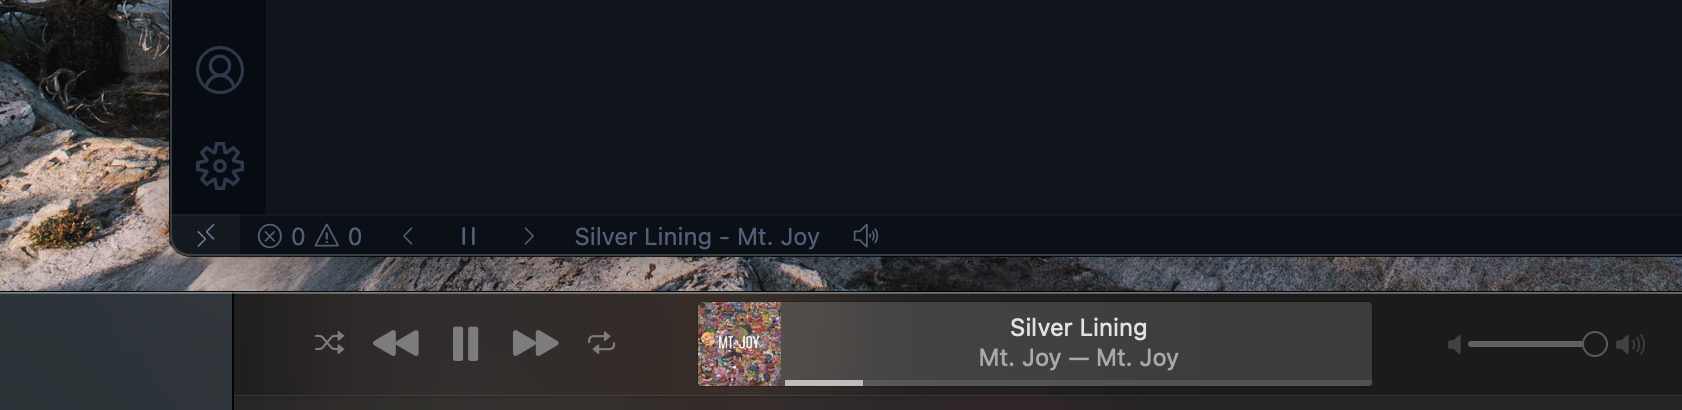
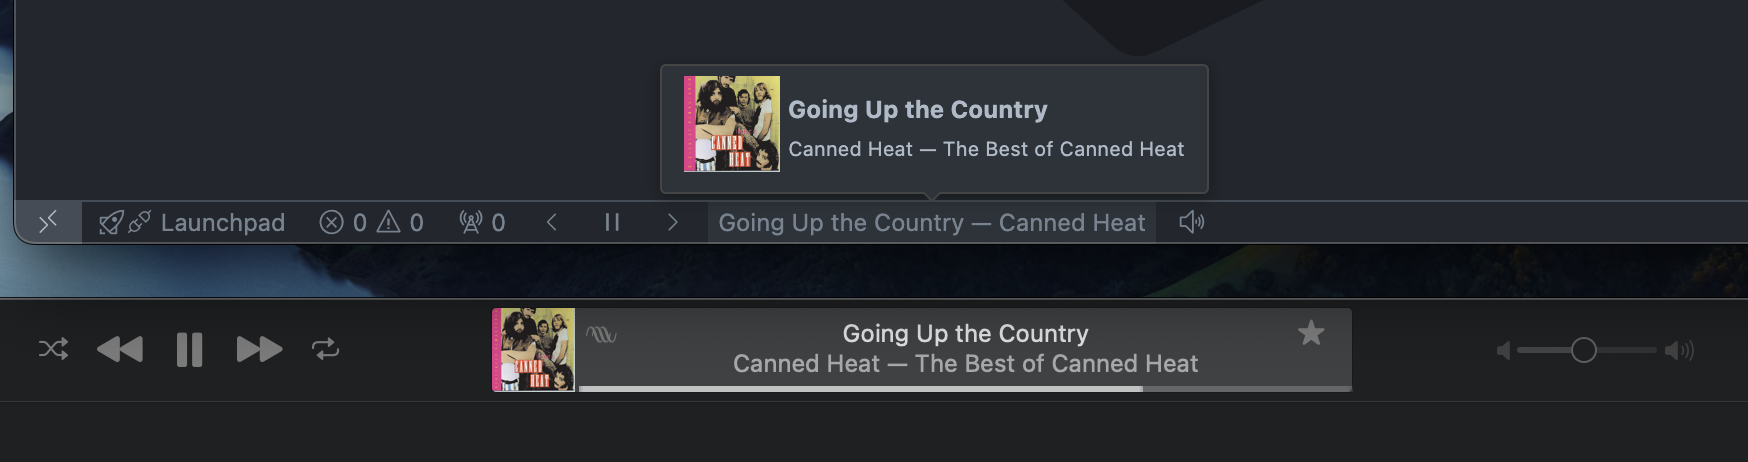
1.2.2 release

diff --git a/src/apple-music-player.ts b/src/apple-music-player.ts
@@ -9,6 +9,7 @@ export default class AppleMusicPlayer {
   public titleTrackButton: vscode.StatusBarItem;
 
   private appleScriptRunner: AppleScriptRunner;
+  private volume: number = 100;
 
   constructor(appleScriptRunner: AppleScriptRunner) {
     this.previousTrackButton = vscode.window.createStatusBarItem(
@@ -101,7 +102,7 @@ export default class AppleMusicPlayer {
    * Unmute the track
    */
   public unmuteTrack() {
-    this.appleScriptRunner.run("unmute.applescript");
+    this.appleScriptRunner.run("unmute.applescript", this.volume.toString());
     this.setUnmutedState();
   }
 
@@ -122,6 +123,7 @@ export default class AppleMusicPlayer {
   public async updateState() {
     const result = await this.appleScriptRunner.run("get-status.applescript");
     const status = JSON.parse(result);
+    this.volume = status.v;
 
     if (status.s === "paused") {
       this.setPausedState();
@@ -137,12 +139,30 @@ export default class AppleMusicPlayer {
       this.setUnmutedState();
     }
 
-    let text =
-      status.n && status.a ? `${status.n} — ${status.a}` : "Not Playing";
-    this.titleTrackButton.tooltip = text;
+    let tooltip = new vscode.MarkdownString();
+    tooltip.supportHtml = true;
+    tooltip.supportThemeIcons = true;
+    if (status.d) {
+      tooltip.appendMarkdown(
+        `<table>
+          <tr>
+            <td>
+              <img src="${status.d}" width="48px" height="48px" style="display:inline;" />
+            </td>
+            <td>
+              <div><b>${status.t}</b></div>
+              <div><small>${status.m} — ${status.a}</small></div>
+            </td>
+          </tr>
+        </table>`
+      );
+    }
 
+    let text =
+      status.t && status.m ? `${status.t} — ${status.m}` : "Not Playing";
     text = text.length > 50 ? text.substring(0, 50) + "..." : text;
     this.titleTrackButton.text = text;
+    this.titleTrackButton.tooltip = tooltip;
   }
 
   private setPausedState() {

diff --git a/src/apple-script-runner.ts b/src/apple-script-runner.ts
@@ -1,5 +1,5 @@
-import { runAppleScript } from "run-applescript";
 import * as fs from "fs";
+import { runAppleScript } from "run-applescript";
 import path = require("path");
 
 export default class AppleScriptRunner {
@@ -9,9 +9,9 @@ export default class AppleScriptRunner {
     this.scriptMap = this.initializeMap();
   }
 
-  public run(script: string) {
+  public run(script: string, arg: string = "") {
     if (this.scriptMap.has(script)) {
-      return runAppleScript(this.scriptMap.get(script) as string);
+      return runAppleScript(this.scriptMap.get(script)!.replace("$ARG$", arg));
     }
     throw new Error("Script not found");
   }

diff --git a/src/extension.ts b/src/extension.ts
@@ -59,7 +59,9 @@ export function activate(context: vscode.ExtensionContext) {
   });
 
   intervalId = setInterval(() => player.updateState(), 5000);
-  player.show();
+  player.updateState().then(() => {
+    player.show();
+  });
 }
 
 export function deactivate() {

diff --git a/README.md b/README.md
@@ -5,6 +5,7 @@ Apple Music client for Visual Studio Code.
 ## Features
 
 - Supported Controls
+  - Open Apple Music
   - Play/Pause
   - Mute/Unmute
   - Play Previous/Next Song
@@ -16,6 +17,11 @@ Apple Music client for Visual Studio Code.
 - macOS with Apple Music
 
 ## Release Notes
+
+### 1.2.2
+
+- Add a tooltip with track and album art information
+- Fix issue with volume when muting and unmuting
 
 ### 1.2.1
 
